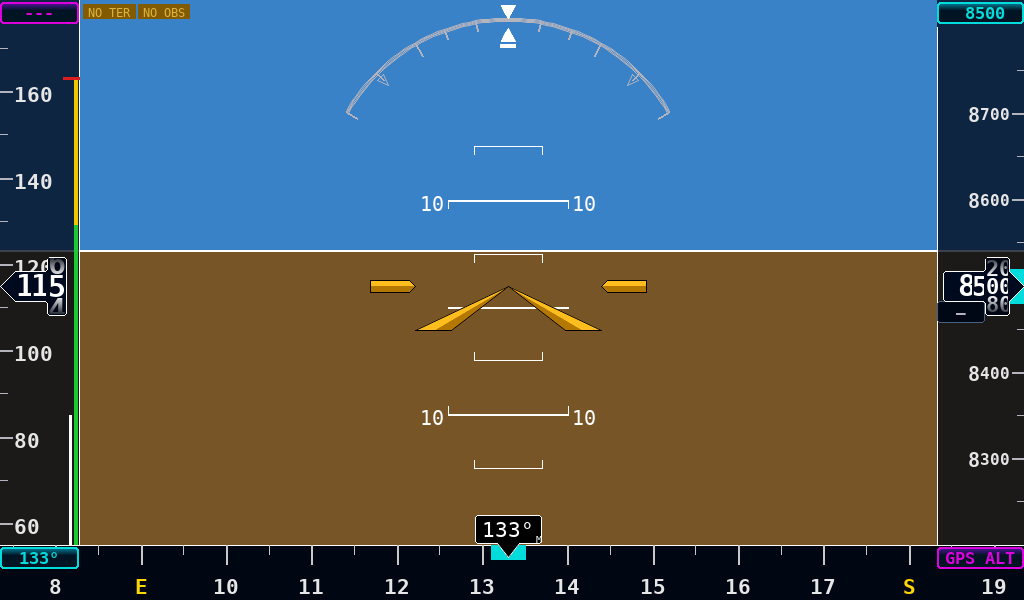
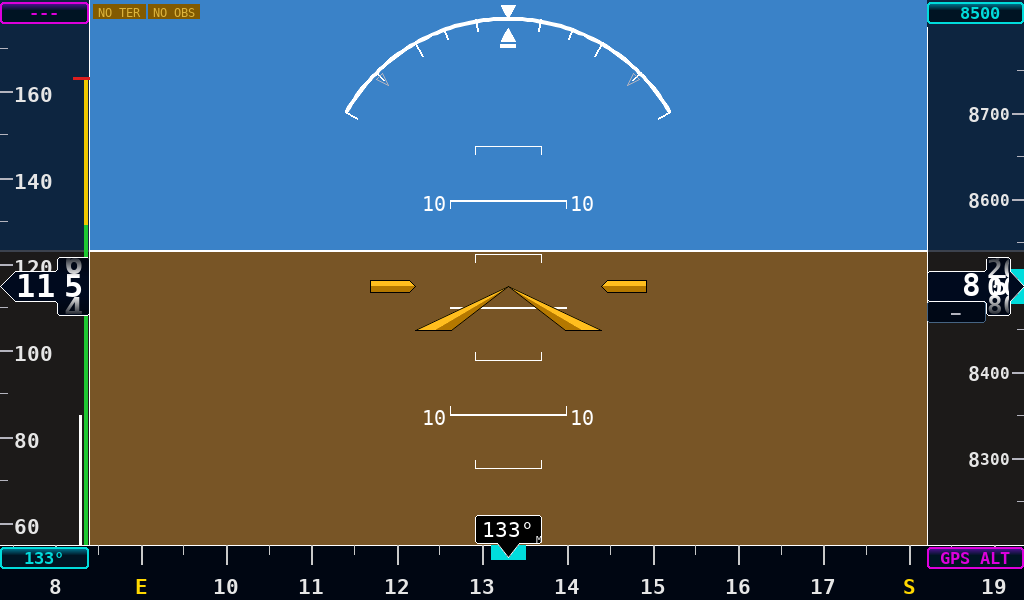
Bold solid white arc, wider Pi4 tapes, scaled VR drum boxes
Roll arc (both versions):
- Solid filled polygon band (inner+outer radius) instead of AA lines
- WHITE instead of LTGREY — bold and visible
- AA outline for smooth edges
- Tick marks also WHITE, 2px, extending through arc band

Pi4 tapes:
- SPD_W=89, ALT_W=97 (+15px total from original 74/82)
- VR drum boxes scale proportionally to tape width
- Font sizes scale with tape width (max 28px speed, 26px alt)
- Inner/drum section ratios preserved across resolutions

https://claude.ai/code/session_018sBLgJ7ZVU7xYH4qxt6x56

diff --git a/pi4/pfd.py b/pi4/pfd.py
@@ -741,19 +741,25 @@ def draw_roll_arc(surf, roll):
     cx, cy = CX, ROLL_CY
 
     # ── Arc: 120° span centred at 12 o'clock, rotated by roll ────────────────
-    # Bold anti-aliased arc using 4 concentric polylines for ~3px visible weight.
-    # Uses screen-Y convention (cy + R*sin) matching the tick marks.
-    _ARC_STEPS = 60
-    for r_offset in range(-1, 3):
-        pts = []
-        r = ROLL_R + r_offset
-        for i in range(_ARC_STEPS + 1):
-            ang = (-90 + roll - 60 + i * 120.0 / _ARC_STEPS) * DEG
-            pts.append((int(cx + r * math.cos(ang)),
-                        int(cy + r * math.sin(ang))))
-        pygame.draw.aalines(surf, LTGREY, False, pts)
+    # Solid filled polygon band between inner and outer radius for a bold,
+    # truly solid arc.  Outer edge traced forward, inner edge traced backward
+    # to form a closed polygon that pygame fills completely.
+    _ARC_STEPS = 80
+    _ARC_THICK = 3  # pixels of arc band thickness
+    arc_outer = []
+    arc_inner = []
+    for i in range(_ARC_STEPS + 1):
+        ang = (-90 + roll - 60 + i * 120.0 / _ARC_STEPS) * DEG
+        cos_a, sin_a = math.cos(ang), math.sin(ang)
+        arc_outer.append((int(cx + (ROLL_R + _ARC_THICK) * cos_a),
+                          int(cy + (ROLL_R + _ARC_THICK) * sin_a)))
+        arc_inner.append((int(cx + ROLL_R * cos_a),
+                          int(cy + ROLL_R * sin_a)))
+    arc_band = arc_outer + list(reversed(arc_inner))
+    pygame.gfxdraw.filled_polygon(surf, arc_band, WHITE)
+    pygame.gfxdraw.aapolygon(surf, arc_band, WHITE)
 
-    # ── Tick marks — bolder (width 2) to match arc weight ────────────────────
+    # ── Tick marks — solid white, 2px width ──────────────────────────────────
     for deg2, length in [(10, 9), (20, 9), (30, 13),
                          (-10, 9), (-20, 9), (-30, 13),
                          (45, 9), (-45, 9), (60, 11), (-60, 11)]:
@@ -761,9 +767,9 @@ def draw_roll_arc(surf, roll):
         cos_a, sin_a = math.cos(ang), math.sin(ang)
         x1 = int(cx + (ROLL_R - length) * cos_a)
         y1 = int(cy + (ROLL_R - length) * sin_a)
-        x2 = int(cx + ROLL_R * cos_a)
-        y2 = int(cy + ROLL_R * sin_a)
-        pygame.draw.line(surf, LTGREY, (x1, y1), (x2, y2), 2)
+        x2 = int(cx + (ROLL_R + _ARC_THICK) * cos_a)
+        y2 = int(cy + (ROLL_R + _ARC_THICK) * sin_a)
+        pygame.draw.line(surf, WHITE, (x1, y1), (x2, y2), 2)
         # Hollow triangles at ±45
         if abs(deg2) == 45:
             perp = ang + math.pi / 2
@@ -924,23 +930,32 @@ def draw_speed_tape(surf, speed, gs_bug=None,
         pygame.draw.polygon(surf, spd_bug_col, gb)
         surf.set_clip(None)
 
-    # Speed readout box — stepped Veeder-Root style (from SVG spec)
-    # Layout: pointer(15) → inner section(32) → drum section(19) = 66px total
-    pts_s = _chamfer([(SPD_X,      TAPE_MID),
-                      (SPD_X + 15, TAPE_MID - 15), (SPD_X + 47, TAPE_MID - 15),
-                      (SPD_X + 47, TAPE_MID - 29), (SPD_X + 66, TAPE_MID - 29),
-                      (SPD_X + 66, TAPE_MID + 29),
-                      (SPD_X + 47, TAPE_MID + 29), (SPD_X + 47, TAPE_MID + 15),
-                      (SPD_X + 15, TAPE_MID + 15)], {2, 3, 4, 5, 6, 7})
+    # Speed readout box — stepped Veeder-Root style, scaled to tape width.
+    # Pointer 17% | inner section 48% | drum section 35% of SPD_W
+    _sp = SPD_X
+    _ptr = int(SPD_W * 0.17)       # pointer tip width
+    _inner_r = int(SPD_W * 0.65)   # inner section right edge
+    _box_r = SPD_W                  # right edge = full tape width
+    _hh = 15; _HH = 29             # half-heights: inner / drum
+    pts_s = _chamfer([(_sp,             TAPE_MID),
+                      (_sp + _ptr,      TAPE_MID - _hh), (_sp + _inner_r, TAPE_MID - _hh),
+                      (_sp + _inner_r,  TAPE_MID - _HH), (_sp + _box_r,   TAPE_MID - _HH),
+                      (_sp + _box_r,    TAPE_MID + _HH),
+                      (_sp + _inner_r,  TAPE_MID + _HH), (_sp + _inner_r, TAPE_MID + _hh),
+                      (_sp + _ptr,      TAPE_MID + _hh)], {2, 3, 4, 5, 6, 7})
     pygame.gfxdraw.filled_polygon(surf, pts_s, (0, 10, 30))
     pygame.gfxdraw.aapolygon(surf, pts_s, WHITE)
     spd_col = RED if speed > vne else (YELLOW if speed > vno else WHITE)
-    # Inner: hundreds + tens at same font as drum, cascade-rolling
-    _rolling_drum(surf, SPD_X + 16, TAPE_MID - 14, 30, 28, speed, 2, spd_col, 24, power_offset=1)
-    # Drum: units digit, adjacent digits ~50% visible
-    _rolling_drum(surf, SPD_X + 48, TAPE_MID - 28, 17, 56, speed, 1, spd_col, 24,
+    # Inner: hundreds + tens; drum: units digit
+    _drum_x = _sp + _inner_r + 2
+    _drum_w = _box_r - _inner_r - 2
+    _inner_x = _sp + _ptr + 1
+    _inner_w = _inner_r - _ptr - 2
+    _fsz = max(20, min(28, int(SPD_W * 0.30)))
+    _rolling_drum(surf, _inner_x, TAPE_MID - 14, _inner_w, 28, speed, 2, spd_col, _fsz, power_offset=1)
+    _rolling_drum(surf, _drum_x, TAPE_MID - 28, _drum_w, 56, speed, 1, spd_col, _fsz,
                   show_adjacent=True, adj_slot_h=23)
-    _drum_shade(surf,   SPD_X + 48, TAPE_MID - 28, 17, 56)   # 1px inset from border
+    _drum_shade(surf, _drum_x, TAPE_MID - 28, _drum_w, 56)
 
     # GS bug button — top strip of speed tape; color matches bug triangle
     gs_str = f"{round(gs_bug):3d}" if gs_bug is not None else "---"
@@ -1019,24 +1034,28 @@ def draw_alt_tape(surf, alt, vspeed, baro_hpa, baro_src, alt_bug=None, baro_ok=T
         pygame.draw.polygon(surf, alt_bug_col, bug)
         surf.set_clip(None)
 
-    # Altitude readout box — stepped Veeder-Root style (from SVG spec)
-    # Layout: inner section(42) → drum section(24) → pointer(15) = 81px total
-    R = ALT_X + ALT_W   # right edge = 640
-    pts_a = _chamfer([(R,      TAPE_MID),
-                      (R - 15, TAPE_MID - 15), (R - 15, TAPE_MID - 29),
-                      (R - 39, TAPE_MID - 29), (R - 39, TAPE_MID - 15),
-                      (R - 81, TAPE_MID - 15),
-                      (R - 81, TAPE_MID + 15),
-                      (R - 39, TAPE_MID + 15), (R - 39, TAPE_MID + 29),
-                      (R - 15, TAPE_MID + 29), (R - 15, TAPE_MID + 15)], {2, 3, 4, 5, 6, 7, 8, 9})
+    # Altitude readout box — stepped Veeder-Root style, scaled to tape width.
+    # Pointer 15% | drum section 25% | inner section 60% of ALT_W
+    R = ALT_X + ALT_W
+    _ptr_a  = int(ALT_W * 0.15)     # pointer tip width
+    _drum_l = int(ALT_W * 0.40)     # drum section left edge (from R)
+    _box_l  = ALT_W                  # full tape width (from R)
+    _hh = 15; _HH = 29
+    pts_a = _chamfer([(R,               TAPE_MID),
+                      (R - _ptr_a,      TAPE_MID - _hh), (R - _ptr_a,  TAPE_MID - _HH),
+                      (R - _drum_l,     TAPE_MID - _HH), (R - _drum_l, TAPE_MID - _hh),
+                      (R - _box_l,      TAPE_MID - _hh),
+                      (R - _box_l,      TAPE_MID + _hh),
+                      (R - _drum_l,     TAPE_MID + _hh), (R - _drum_l, TAPE_MID + _HH),
+                      (R - _ptr_a,      TAPE_MID + _HH), (R - _ptr_a,  TAPE_MID + _hh)], {2, 3, 4, 5, 6, 7, 8, 9})
     pygame.gfxdraw.filled_polygon(surf, pts_a, (0, 10, 30))
 
     # VSI readout — drawn BEFORE the outline so the 2px white line frames shared edges
-    _R39  = ALT_X + ALT_W - 39    # 601 = left edge of drum section
-    _nx   = ALT_X                  # 566 — flush with tape left edge
-    _ny   = TAPE_MID + 15          # 244 — flush with inner-box bottom path
-    _nw   = _R39 - ALT_X          # 35  — flush with drum-section left path
-    _nh   = 22                     # extends 7px below outer box bottom for readability
+    _R_drum = R - _drum_l
+    _nx   = ALT_X
+    _ny   = TAPE_MID + 15
+    _nw   = _R_drum - ALT_X
+    _nh   = 22
     if abs(vspeed) > 30:
         _varr = "▲" if vspeed > 0 else "▼"
         _vstr = f"{_varr}{abs(vspeed)/1000:.1f}"
@@ -1053,21 +1072,27 @@ def draw_alt_tape(surf, alt, vspeed, baro_hpa, baro_src, alt_bug=None, baro_ok=T
     carry_frac = max(0.0, (alt % 100) / 20 - 4.0)
     alt_inner  = float(alt // 100) + carry_frac
     inner_int  = int(alt_inner)
-    if inner_int < 10:                      # alt < 1,000 ft — hundreds only
-        _rolling_drum(surf, R - 80, TAPE_MID - 14, 41, 28, alt_inner, 1, WHITE, 24)
-    elif inner_int < 100:                   # 1,000–9,999 ft — thousands (24pt) + hundreds (22pt)
-        # Thousands in right cell of 28px slot (R-66..R-52); ten-thousands slot left empty
-        _rolling_drum(surf, R - 66, TAPE_MID - 14, 14, 28, alt_inner, 1, WHITE, 24,
+    # Inner digits and drum — scaled to tape width
+    _inner_x = R - _box_l + 1
+    _inner_w = _box_l - _drum_l - 1
+    _drum_x_a = _R_drum + 1
+    _drum_w_a = _drum_l - _ptr_a - 2
+    _afsz = max(18, min(26, int(ALT_W * 0.26)))
+    _afsz_sm = max(16, _afsz - 2)
+    if inner_int < 10:
+        _rolling_drum(surf, _inner_x, TAPE_MID - 14, _inner_w, 28, alt_inner, 1, WHITE, _afsz)
+    elif inner_int < 100:
+        _half = _inner_w // 2
+        _rolling_drum(surf, _inner_x + _half, TAPE_MID - 14, _half, 28, alt_inner, 1, WHITE, _afsz,
                       power_offset=1)
-        _rolling_drum(surf, R - 52, TAPE_MID - 14, 12, 28, alt_inner, 1, WHITE, 22)
-    else:                                   # alt ≥ 10,000 ft — ten-thou+thou (22pt) + hundreds
-        _rolling_drum(surf, R - 80, TAPE_MID - 14, 28, 28, alt_inner, 2, WHITE, 22,
+        _rolling_drum(surf, _inner_x + _half + _half, TAPE_MID - 14, _half, 28, alt_inner, 1, WHITE, _afsz_sm)
+    else:
+        _rolling_drum(surf, _inner_x, TAPE_MID - 14, _inner_w * 2 // 3, 28, alt_inner, 2, WHITE, _afsz_sm,
                       suppress_leading=True, power_offset=1)
-        _rolling_drum(surf, R - 52, TAPE_MID - 14, 12, 28, alt_inner, 1, WHITE, 22)
-    # Drum: 20-ft labels scroll together, adjacent labels half-visible
-    _rolling_drum_alt20(surf, R - 38, TAPE_MID - 28, 22, 56, alt, WHITE, 18,
+        _rolling_drum(surf, _inner_x + _inner_w * 2 // 3, TAPE_MID - 14, _inner_w // 3, 28, alt_inner, 1, WHITE, _afsz_sm)
+    _rolling_drum_alt20(surf, _drum_x_a, TAPE_MID - 28, _drum_w_a, 56, alt, WHITE, max(14, _afsz - 4),
                         show_adjacent=True, adj_slot_h=18)
-    _drum_shade(surf,   R - 38, TAPE_MID - 28, 22, 56)   # 1px inset from border
+    _drum_shade(surf, _drum_x_a, TAPE_MID - 28, _drum_w_a, 56)
 
 
 # ── Heading tape ──────────────────────────────────────────────────────────────

diff --git a/pi_zero/pfd.py b/pi_zero/pfd.py
@@ -705,18 +705,23 @@ def draw_roll_arc(surf, roll):
     cx, cy = CX, ROLL_CY
 
     # ── Arc: 120° span centred at 12 o'clock, rotated by roll ────────────────
-    # Bold anti-aliased arc using 4 concentric polylines for ~3px visible weight.
-    _ARC_STEPS = 60
-    for r_offset in range(-1, 3):
-        pts = []
-        r = ROLL_R + r_offset
-        for i in range(_ARC_STEPS + 1):
-            ang = (-90 + roll - 60 + i * 120.0 / _ARC_STEPS) * DEG
-            pts.append((int(cx + r * math.cos(ang)),
-                        int(cy + r * math.sin(ang))))
-        pygame.draw.aalines(surf, LTGREY, False, pts)
+    # Solid filled polygon band between inner and outer radius.
+    _ARC_STEPS = 80
+    _ARC_THICK = 3
+    arc_outer = []
+    arc_inner = []
+    for i in range(_ARC_STEPS + 1):
+        ang = (-90 + roll - 60 + i * 120.0 / _ARC_STEPS) * DEG
+        cos_a, sin_a = math.cos(ang), math.sin(ang)
+        arc_outer.append((int(cx + (ROLL_R + _ARC_THICK) * cos_a),
+                          int(cy + (ROLL_R + _ARC_THICK) * sin_a)))
+        arc_inner.append((int(cx + ROLL_R * cos_a),
+                          int(cy + ROLL_R * sin_a)))
+    arc_band = arc_outer + list(reversed(arc_inner))
+    pygame.gfxdraw.filled_polygon(surf, arc_band, WHITE)
+    pygame.gfxdraw.aapolygon(surf, arc_band, WHITE)
 
-    # ── Tick marks — bolder (width 2) to match arc weight ────────────────────
+    # ── Tick marks — solid white, 2px width ──────────────────────────────────
     for deg2, length in [(10, 9), (20, 9), (30, 13),
                          (-10, 9), (-20, 9), (-30, 13),
                          (45, 9), (-45, 9), (60, 11), (-60, 11)]:
@@ -724,9 +729,9 @@ def draw_roll_arc(surf, roll):
         cos_a, sin_a = math.cos(ang), math.sin(ang)
         x1 = int(cx + (ROLL_R - length) * cos_a)
         y1 = int(cy + (ROLL_R - length) * sin_a)
-        x2 = int(cx + ROLL_R * cos_a)
-        y2 = int(cy + ROLL_R * sin_a)
-        pygame.draw.line(surf, LTGREY, (x1, y1), (x2, y2), 2)
+        x2 = int(cx + (ROLL_R + _ARC_THICK) * cos_a)
+        y2 = int(cy + (ROLL_R + _ARC_THICK) * sin_a)
+        pygame.draw.line(surf, WHITE, (x1, y1), (x2, y2), 2)
         # Hollow triangles at ±45
         if abs(deg2) == 45:
             perp = ang + math.pi / 2

diff --git a/pi4/config.py b/pi4/config.py
@@ -80,8 +80,8 @@ DISPLAY_ROTATE = 0      # degrees CCW: 0, 90, 180, 270
 _SY = DISPLAY_H / 480.0   # vertical scale factor
 
 SPD_X      = 0
-SPD_W      = 79                          # 74 + 5px for 1024×600 readability
-ALT_W      = 87                          # 82 + 5px for 1024×600 readability
+SPD_W      = 89                          # 74 + 15px for 1024×600 readability
+ALT_W      = 97                          # 82 + 15px for 1024×600 readability
 ALT_X      = DISPLAY_W - ALT_W
 HDG_H      = int(44  * _SY)
 HDG_Y      = DISPLAY_H - HDG_H
